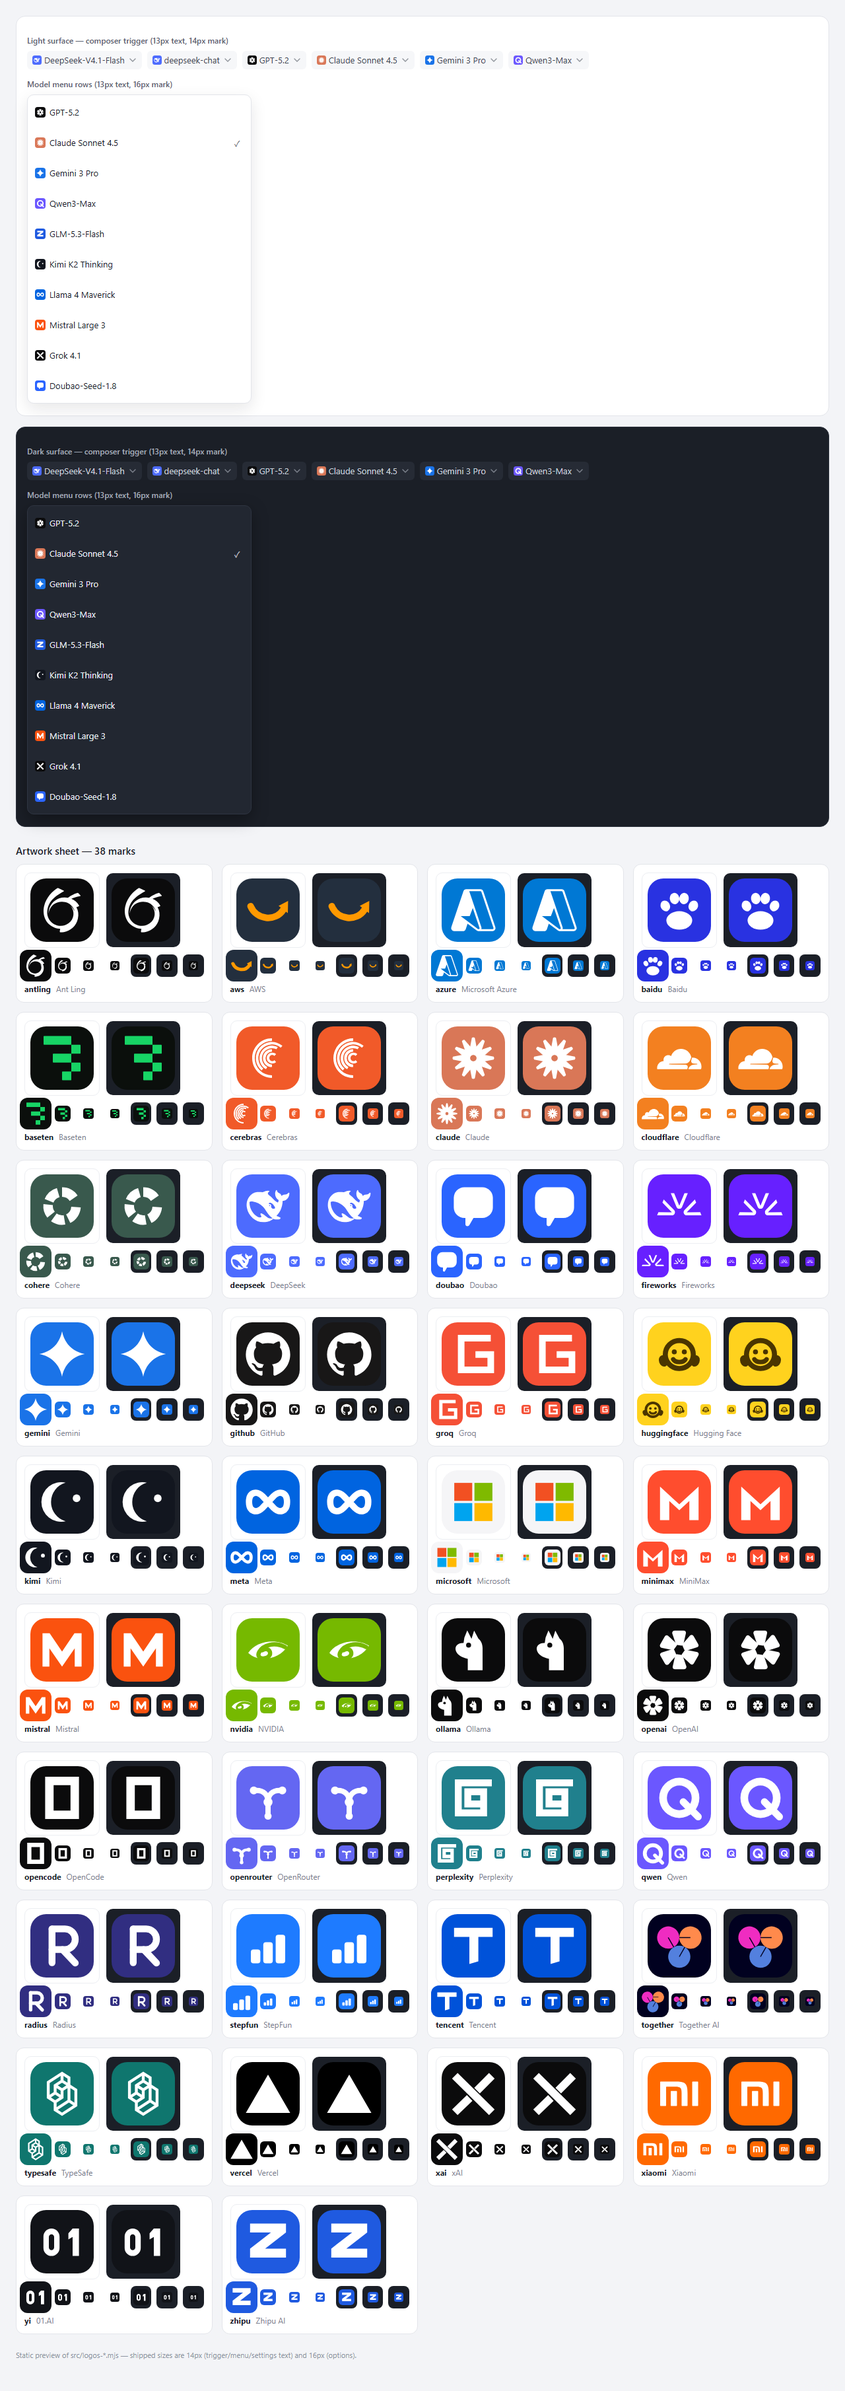
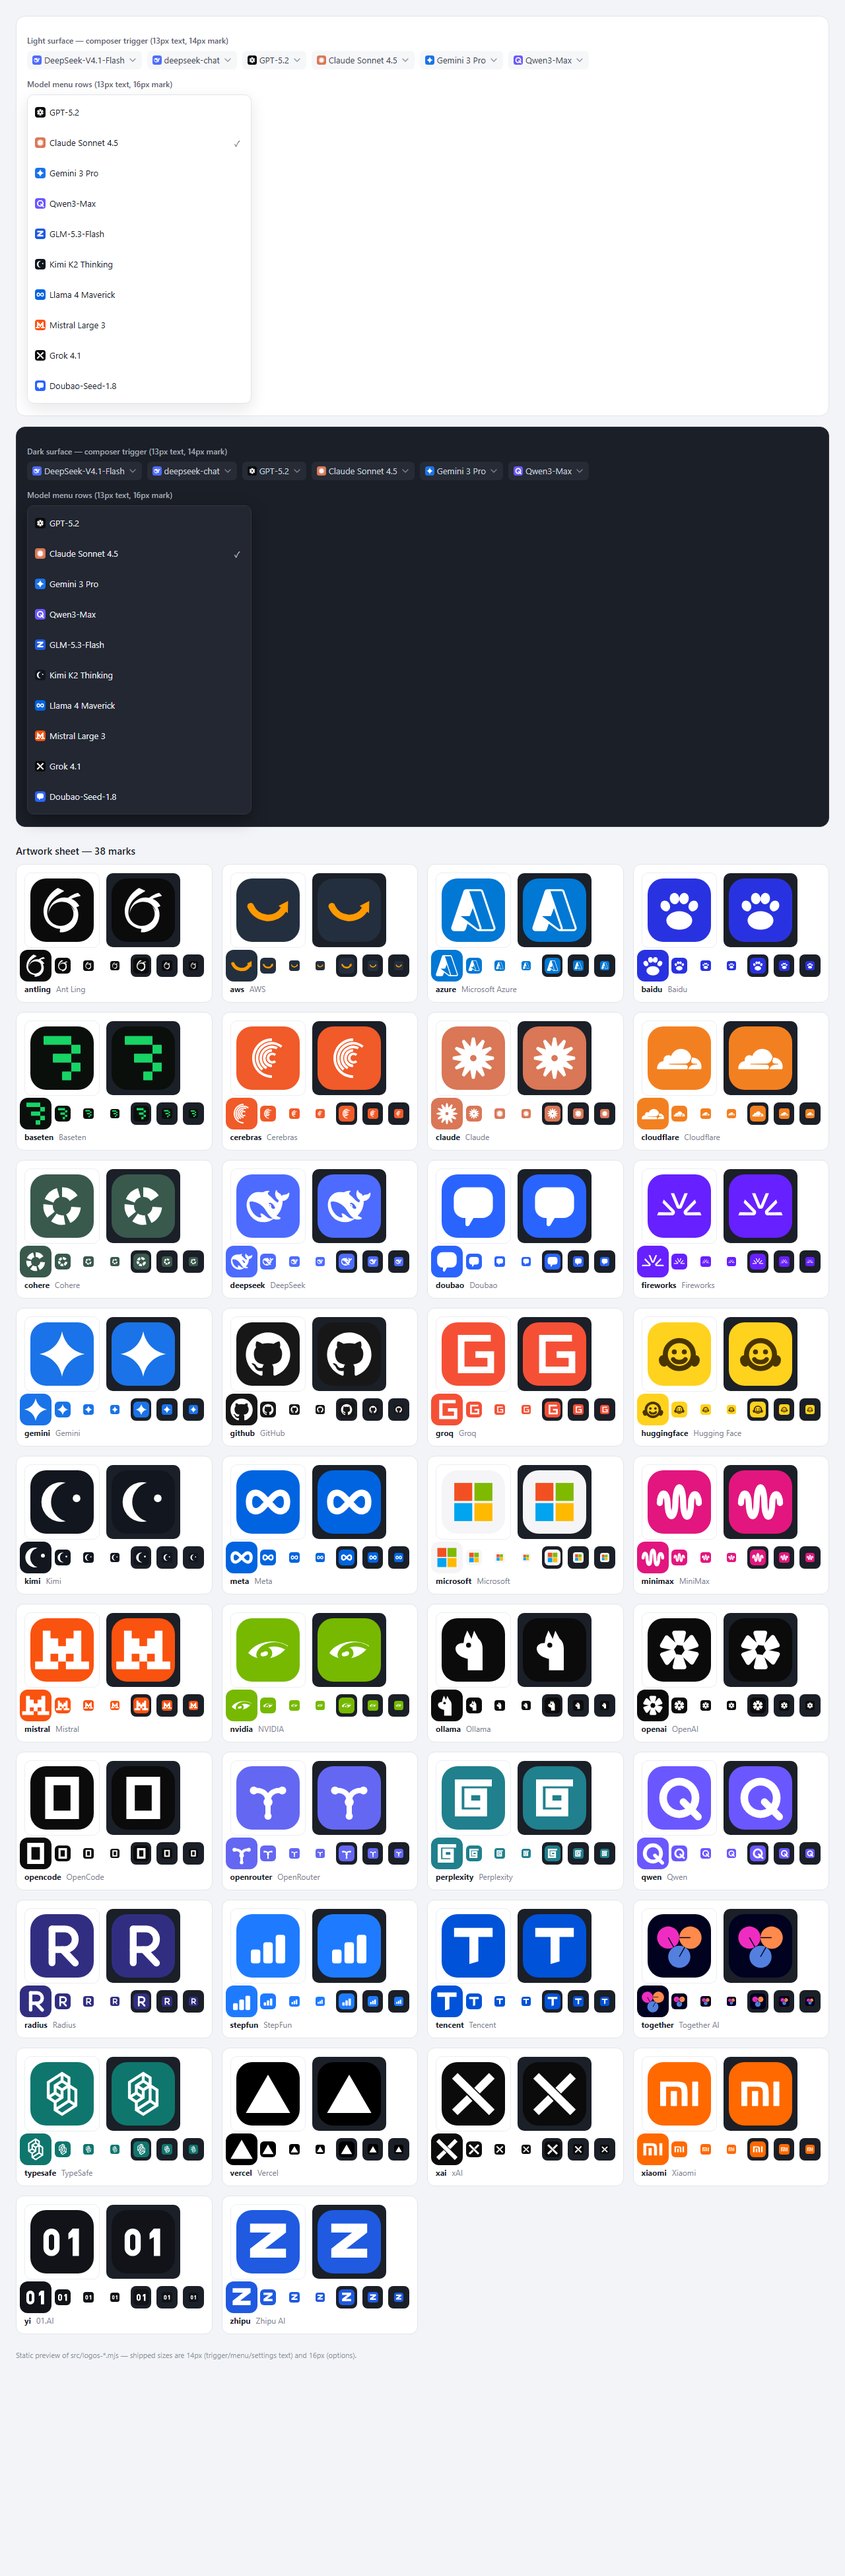
fix: correct the MiniMax and Mistral brand marks
Both vendor marks were hand-drawn letter M's on nearly the same orange tile, so MiniMax and Mistral were easy to confuse at the shipped 14-16 px sizes.

- MiniMax: replace the letterform with the brand's 2025 pink-to-orange signal line - a magenta #E2167E tile and a five-half-wave sine signal (round caps, mild envelope) that reads as a waveform, not a letter, at every shipped size.
- Mistral: replace the smooth M with the official 2025 pixel-block M (7x5 grid, stepped shoulders, split feet), using the official single-colour outline from @lobehub/icons-static-svg (MIT) and flattening it to the white-glyph tile convention for 14 px legibility.

Regenerate client.js and the docs previews, add the before/after sheet (docs/preview-corrected-marks.png), and document both corrections in the README artwork section.

Verified: build --check, 46/46 unit tests, 36/36 DOM assertions, live bundle rev cee18b707e67 served by the running GUI; independently re-checked by a read-only artwork verifier.

diff --git a/client.js b/client.js
@@ -31,7 +31,7 @@ window.__ModuleLoader__.load({
       },
       "mistral": {
         "title": "Mistral",
-        "svg": "<svg viewBox=\"0 0 24 24\" xmlns=\"http://www.w3.org/2000/svg\"><rect width=\"24\" height=\"24\" rx=\"6\" fill=\"#FA520F\"/><path d=\"M4.6 18.3V5.7H7.3L12 12.6L16.7 5.7H19.4V18.3H16.8V11.4L12 18.3L7.2 11.4V18.3Z\" fill=\"#FFFFFF\"/></svg>"
+        "svg": "<svg viewBox=\"0 0 24 24\" xmlns=\"http://www.w3.org/2000/svg\"><rect width=\"24\" height=\"24\" rx=\"6\" fill=\"#FA520F\"/><g transform=\"translate(1.8 1.824) scale(0.85)\" fill=\"#FFFFFF\"><path d=\"M3.428 3.4h3.429v3.428h3.429v3.429h-.002 3.431V6.828h3.427V3.4h3.43v13.714H24v3.429H13.714v-3.428h-3.428v-3.429h-3.43v3.428h3.43v3.429H0v-3.429h3.428V3.4zm10.286 13.715h3.428v-3.429h-3.427v3.429z\"/></g></svg>"
       },
       "xai": {
         "title": "xAI",
@@ -91,7 +91,7 @@ window.__ModuleLoader__.load({
       },
       "minimax": {
         "title": "MiniMax",
-        "svg": "<svg viewBox=\"0 0 24 24\"><rect width=\"24\" height=\"24\" rx=\"6\" fill=\"#FF4D2E\"/><path fill=\"#FFFFFF\" d=\"M4.7 18.9V6.2l7.3 6.7 7.3-6.7v12.7h-3.5v-7.3L12 15.1l-3.8-3.5v7.3z\"/></svg>"
+        "svg": "<svg viewBox=\"0 0 24 24\"><rect width=\"24\" height=\"24\" rx=\"6\" fill=\"#E2167E\"/><path d=\"M4.6 12.4A1.48 3.6 0 0 1 7.56 12.4A1.48 5 0 0 0 10.52 12.4A1.48 6 0 0 1 13.48 12.4A1.48 5.2 0 0 0 16.44 12.4A1.48 3.4 0 0 1 19.4 12.4\" fill=\"none\" stroke=\"#FFFFFF\" stroke-width=\"2.3\" stroke-linecap=\"round\"/></svg>"
       },
       "doubao": {
         "title": "Doubao",

diff --git a/README.md b/README.md
@@ -145,6 +145,19 @@ trademarks of their owners and appear here only to identify the provider or mode
 being used. Replace any mark with an official asset when one is available under a
 redistribution-friendly licence.
 
+Two marks were corrected against the brands' current identities (both used to be
+a plain letter "M" on the same orange tile, so they were easy to confuse):
+
+- **MiniMax** is not an "M": the official mark is the 2025 pink-to-orange signal
+  line (the nine-loop waveform). It is redrawn as a five-half-wave sine-wave
+  segment on a magenta `#E2167E` tile, so it reads as a waveform at 14 px instead
+  of a letterform.
+- **Mistral** is the official 2025 pixel-block "M" (seven columns by five rows of
+  squares, with stepped shoulders and split feet). The single-colour outline
+  comes from `@lobehub/icons-static-svg` (MIT) and is flattened to a white glyph
+  on the brand orange tile; the official yellow-to-red five-band gradient would
+  turn to coloured noise at 14 px.
+
 ## Build
 
 `client.js` is generated — never edit it by hand. It inlines the pure modules
@@ -271,9 +284,11 @@ icon settings are unavailable.
   the override, the Model-icons settings section listing the configured models,
   and no uncaught page errors. Screenshots: `docs/preview-live-settings.png`,
   `docs/preview-live-picker.png`.
-- Visual check of every mark at 14/16/24/48/96 px: `docs/preview.png`; the new
-  vendor marks: `docs/preview-vendors.png`.
+- Visual check of every mark at 14/16/24/48/96 px, including the corrected
+  MiniMax waveform and Mistral pixel-block M: `docs/preview.png`; the vendor
+  marks: `docs/preview-vendors.png`; before/after of the two corrected marks:
+  `docs/preview-corrected-marks.png`.
 - Live bundle check with `scripts/verify-live.mjs` against the running Web GUI:
-  `/plugins/??dsh-model-logos/client.js&rev=f96647f308c9` returned the freshly
-  built artifact (169,849 bytes served, 38 artwork entries), proving the client
+  `/plugins/??dsh-model-logos/client.js&rev=cee18b707e67` returned the freshly
+  built artifact (170,170 bytes served, 38 artwork entries), proving the client
   HMR transport published this exact build without an app restart.
